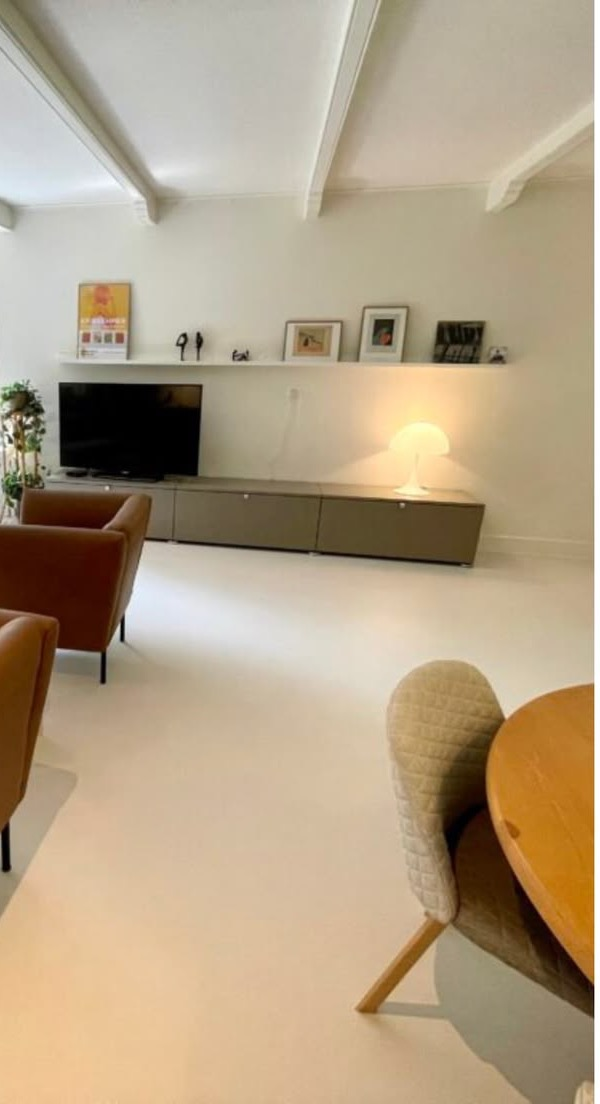
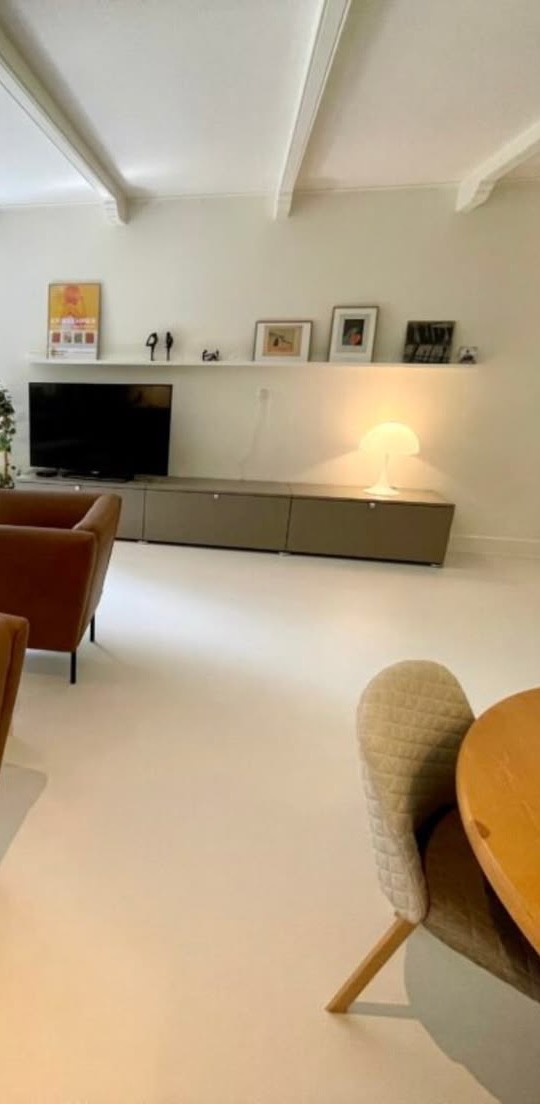
hero: clickable panel columns + badge reorder + crop r-02-v2 whitespace
- Hero desktop: 3 background photo columns (Priemysel/Bývanie/Garáž) wrapped
  in Links to /realizacie?priestor=X. Hover effect: photo brightens, gradient
  overlay lightens, blue ring-inset border appears, "Pozrieť realizácie →"
  pill fades in. Container set to pointer-events-none with bubble auto so
  clicks pass through to panels.
- Hero bottom desktop chips (PRIEMYSEL/BÝVANIE/GARÁŽ): now Links with hover
  state (chip turns blue, description text colors blue).
- Certifikované badges reorder: HACCP next to ESD (small+small in row 1),
  ATEX where Protišmyk was, Protišmyk last (small+large in row 2).
- Crop ~60px of right whitespace off r-02-v2.jpg (600x1104 → 540x1104).

diff --git a/src/components/home/Hero.tsx b/src/components/home/Hero.tsx
@@ -26,7 +26,7 @@ const FEATURES = [
   {
     icon: ShieldCheck,
     title: "Certifikované riešenia",
-    badges: ["⚡ ESD", "🔥 ATEX", "🛡 Protišmyk", "🥗 HACCP"],
+    badges: ["⚡ ESD", "🥗 HACCP", "🔥 ATEX", "🛡 Protišmyk"],
   },
   {
     icon: Brush,
@@ -120,51 +120,6 @@ export function Hero() {
                 "radial-gradient(60% 60% at 50% 0%, rgba(61,182,232,0.18), transparent 70%)",
             }}
           />
-          {/* 3 stĺpce pozadia: 1/3 priemyselná hala (fotka) + 2/3 placeholdere */}
-          <div className="absolute inset-0 hidden md:grid grid-cols-3">
-            {/* Priemysel — reálna fotka haly */}
-            <div className="relative overflow-hidden">
-              <Image
-                src="/images/hero/hala.jpg"
-                alt=""
-                fill
-                priority
-                sizes="(max-width: 768px) 100vw, 60vw"
-                quality={92}
-                className="object-cover scale-[1.12] origin-bottom"
-                style={{ objectPosition: "center 65%" }}
-              />
-              {/* jemný overlay len pre lepšiu nadväznosť */}
-              <div className="absolute inset-0 bg-gradient-to-r from-[#0a0f1e]/25 via-[#0a0f1e]/15 to-[#0a0f1e]/45" />
-            </div>
-            {/* Bývanie — placeholder (1920×1920) kým klient nepošle finálnu fotku */}
-            <div className="relative overflow-hidden">
-              <Image
-                src="/images/hero/byvanie-kitchen.jpg"
-                alt=""
-                fill
-                priority
-                sizes="(max-width: 768px) 100vw, 60vw"
-                quality={92}
-                className="object-cover"
-                style={{ objectPosition: "center 75%" }}
-              />
-              <div className="absolute inset-0 bg-gradient-to-b from-[#0a0f1e]/25 via-[#0a0f1e]/15 to-[#0a0f1e]/45" />
-            </div>
-            {/* Garáž — reálna fotka epoxidovej garáže */}
-            <div className="relative overflow-hidden">
-              <Image
-                src="/images/hero/garaz.webp"
-                alt=""
-                fill
-                priority
-                sizes="(max-width: 768px) 100vw, 60vw"
-                quality={92}
-                className="object-cover"
-              />
-              <div className="absolute inset-0 bg-gradient-to-l from-[#0a0f1e]/25 via-[#0a0f1e]/15 to-[#0a0f1e]/45" />
-            </div>
-          </div>
           {/* Na mobile: jedna centrálna faded ikona */}
           <div className="absolute inset-0 flex items-center justify-center md:hidden">
             <House
@@ -175,12 +130,80 @@ export function Hero() {
           </div>
         </div>
 
+        {/* Desktop — 3 klikateľné stĺpce s fotkami (Priemysel / Bývanie / Garáž).
+            pointer-events-none na wrapperi, pointer-events-auto na Linkoch,
+            aby Container (hero bubble) nad nimi ostal interaktívny. */}
+        <div className="absolute inset-0 hidden md:grid grid-cols-3 pointer-events-none">
+          <Link
+            href="/realizacie?priestor=hala-firma"
+            aria-label="Pozrieť realizácie — Priemysel"
+            className="pointer-events-auto relative overflow-hidden group focus:outline-none focus-visible:ring-2 focus-visible:ring-[#3db6e8] focus-visible:ring-inset"
+          >
+            <Image
+              src="/images/hero/hala.jpg"
+              alt=""
+              fill
+              priority
+              sizes="(max-width: 768px) 100vw, 60vw"
+              quality={92}
+              className="object-cover scale-[1.12] origin-bottom group-hover:scale-[1.18] transition-transform duration-700 ease-out"
+              style={{ objectPosition: "center 65%" }}
+            />
+            <div className="absolute inset-0 bg-gradient-to-r from-[#0a0f1e]/25 via-[#0a0f1e]/15 to-[#0a0f1e]/45 group-hover:from-[#0a0f1e]/10 group-hover:via-transparent group-hover:to-[#0a0f1e]/30 transition-colors duration-500" />
+            <div className="absolute inset-0 ring-0 group-hover:ring-[3px] ring-inset ring-[#3db6e8]/0 group-hover:ring-[#3db6e8]/70 transition-all duration-300" />
+            <span className="absolute bottom-6 left-1/2 -translate-x-1/2 inline-flex items-center gap-2 px-4 py-2 rounded-full bg-[#3db6e8] text-white text-xs font-bold uppercase tracking-[0.14em] shadow-[0_8px_24px_rgba(61,182,232,0.5)] opacity-0 translate-y-3 group-hover:opacity-100 group-hover:translate-y-0 transition-all duration-300">
+              Pozrieť realizácie →
+            </span>
+          </Link>
+          <Link
+            href="/realizacie?priestor=dom"
+            aria-label="Pozrieť realizácie — Bývanie"
+            className="pointer-events-auto relative overflow-hidden group focus:outline-none focus-visible:ring-2 focus-visible:ring-[#3db6e8] focus-visible:ring-inset"
+          >
+            <Image
+              src="/images/hero/byvanie-kitchen.jpg"
+              alt=""
+              fill
+              priority
+              sizes="(max-width: 768px) 100vw, 60vw"
+              quality={92}
+              className="object-cover group-hover:scale-[1.06] transition-transform duration-700 ease-out"
+              style={{ objectPosition: "center 75%" }}
+            />
+            <div className="absolute inset-0 bg-gradient-to-b from-[#0a0f1e]/25 via-[#0a0f1e]/15 to-[#0a0f1e]/45 group-hover:from-[#0a0f1e]/10 group-hover:via-transparent group-hover:to-[#0a0f1e]/30 transition-colors duration-500" />
+            <div className="absolute inset-0 ring-0 group-hover:ring-[3px] ring-inset ring-[#3db6e8]/0 group-hover:ring-[#3db6e8]/70 transition-all duration-300" />
+            <span className="absolute bottom-6 left-1/2 -translate-x-1/2 inline-flex items-center gap-2 px-4 py-2 rounded-full bg-[#3db6e8] text-white text-xs font-bold uppercase tracking-[0.14em] shadow-[0_8px_24px_rgba(61,182,232,0.5)] opacity-0 translate-y-3 group-hover:opacity-100 group-hover:translate-y-0 transition-all duration-300">
+              Pozrieť realizácie →
+            </span>
+          </Link>
+          <Link
+            href="/realizacie?priestor=garaz"
+            aria-label="Pozrieť realizácie — Garáž"
+            className="pointer-events-auto relative overflow-hidden group focus:outline-none focus-visible:ring-2 focus-visible:ring-[#3db6e8] focus-visible:ring-inset"
+          >
+            <Image
+              src="/images/hero/garaz.webp"
+              alt=""
+              fill
+              priority
+              sizes="(max-width: 768px) 100vw, 60vw"
+              quality={92}
+              className="object-cover group-hover:scale-[1.06] transition-transform duration-700 ease-out"
+            />
+            <div className="absolute inset-0 bg-gradient-to-l from-[#0a0f1e]/25 via-[#0a0f1e]/15 to-[#0a0f1e]/45 group-hover:from-[#0a0f1e]/10 group-hover:via-transparent group-hover:to-[#0a0f1e]/30 transition-colors duration-500" />
+            <div className="absolute inset-0 ring-0 group-hover:ring-[3px] ring-inset ring-[#3db6e8]/0 group-hover:ring-[#3db6e8]/70 transition-all duration-300" />
+            <span className="absolute bottom-6 left-1/2 -translate-x-1/2 inline-flex items-center gap-2 px-4 py-2 rounded-full bg-[#3db6e8] text-white text-xs font-bold uppercase tracking-[0.14em] shadow-[0_8px_24px_rgba(61,182,232,0.5)] opacity-0 translate-y-3 group-hover:opacity-100 group-hover:translate-y-0 transition-all duration-300">
+              Pozrieť realizácie →
+            </span>
+          </Link>
+        </div>
+
         <Container
           size="xl"
-          className="pt-[120px] md:pt-[150px] lg:pt-[170px] pb-10 md:pb-14 relative flex-1 flex flex-col justify-center"
+          className="pt-[120px] md:pt-[150px] lg:pt-[170px] pb-10 md:pb-14 relative flex-1 flex flex-col justify-center md:pointer-events-none"
         >
           {/* Centrovaný obsah — v "bubline" pre čitateľnosť na fotkách */}
-          <div className="text-center max-w-3xl mx-auto rounded-3xl bg-[#0a0f1e]/80 backdrop-blur-md ring-1 ring-white/10 px-6 md:px-10 py-8 md:py-10 shadow-[0_20px_60px_rgba(0,0,0,0.4)]">
+          <div className="text-center max-w-3xl mx-auto rounded-3xl bg-[#0a0f1e]/80 backdrop-blur-md ring-1 ring-white/10 px-6 md:px-10 py-8 md:py-10 shadow-[0_20px_60px_rgba(0,0,0,0.4)] md:pointer-events-auto">
             <h1
               id="hero-title"
               className="text-white text-3xl sm:text-4xl md:text-5xl lg:text-6xl font-extrabold leading-[1.1] tracking-tight"
@@ -271,17 +294,23 @@ export function Hero() {
           </div>
         </div>
 
-        {/* DESKTOP — 3 tag-chips zarovnané na stred každej 1/3 fotky pozadia */}
+        {/* DESKTOP — 3 tag-chips zarovnané na stred každej 1/3 fotky pozadia.
+            Každý chip je klikateľný Link na /realizacie?priestor=X. */}
         <div className="relative hidden md:grid mt-10 md:mt-14 pb-10 md:pb-14 grid-cols-3 gap-0">
-          {CHIPS.map(({ tag, description }) => (
-            <div key={tag} className="text-center px-3">
-              <span className="inline-block px-4 py-2 rounded-md bg-[#f97316] text-white text-sm md:text-base font-black tracking-[0.16em] shadow-[0_4px_14px_rgba(249,115,22,0.45)]">
+          {CHIPS.map(({ tag, description, href }) => (
+            <Link
+              key={tag}
+              href={href}
+              aria-label={`Pozrieť realizácie — ${tag}`}
+              className="group text-center px-3 focus:outline-none focus-visible:ring-2 focus-visible:ring-[#3db6e8] rounded-lg"
+            >
+              <span className="inline-block px-4 py-2 rounded-md bg-[#f97316] text-white text-sm md:text-base font-black tracking-[0.16em] shadow-[0_4px_14px_rgba(249,115,22,0.45)] group-hover:bg-[#3db6e8] group-hover:shadow-[0_6px_20px_rgba(61,182,232,0.55)] group-hover:-translate-y-0.5 transition-all duration-300">
                 {tag}
               </span>
-              <p className="mt-3 text-base md:text-lg font-bold text-white leading-snug">
+              <p className="mt-3 text-base md:text-lg font-bold text-white leading-snug group-hover:text-[#3db6e8] transition-colors duration-300">
                 {description}
               </p>
-            </div>
+            </Link>
           ))}
         </div>
 
